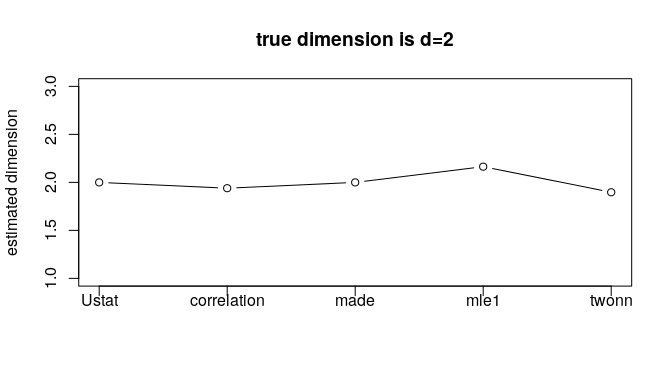
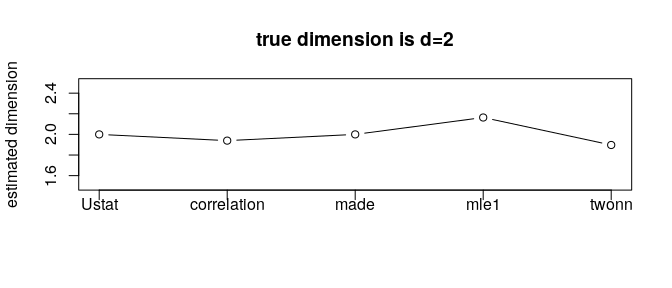
readme figure resizing

diff --git a/README.md b/README.md
@@ -74,7 +74,8 @@ vecd[4] = est.mle1(roll)$estdim        # MLE with Poisson process
 vecd[5] = est.twonn(roll)$estdim       # minimal neighborhood information
 
 # let's visualize
-plot(1:5, vecd, type="b", ylim=c(1,3), main="true dimension is d=2",
+plot(1:5, vecd, type="b", ylim=c(1.5,2.5), 
+     main="true dimension is d=2",
      xaxt="n",xlab="",ylab="estimated dimension")
 xtick = seq(1,5,by=1)
 axis(side=1, at=xtick, labels = FALSE)
